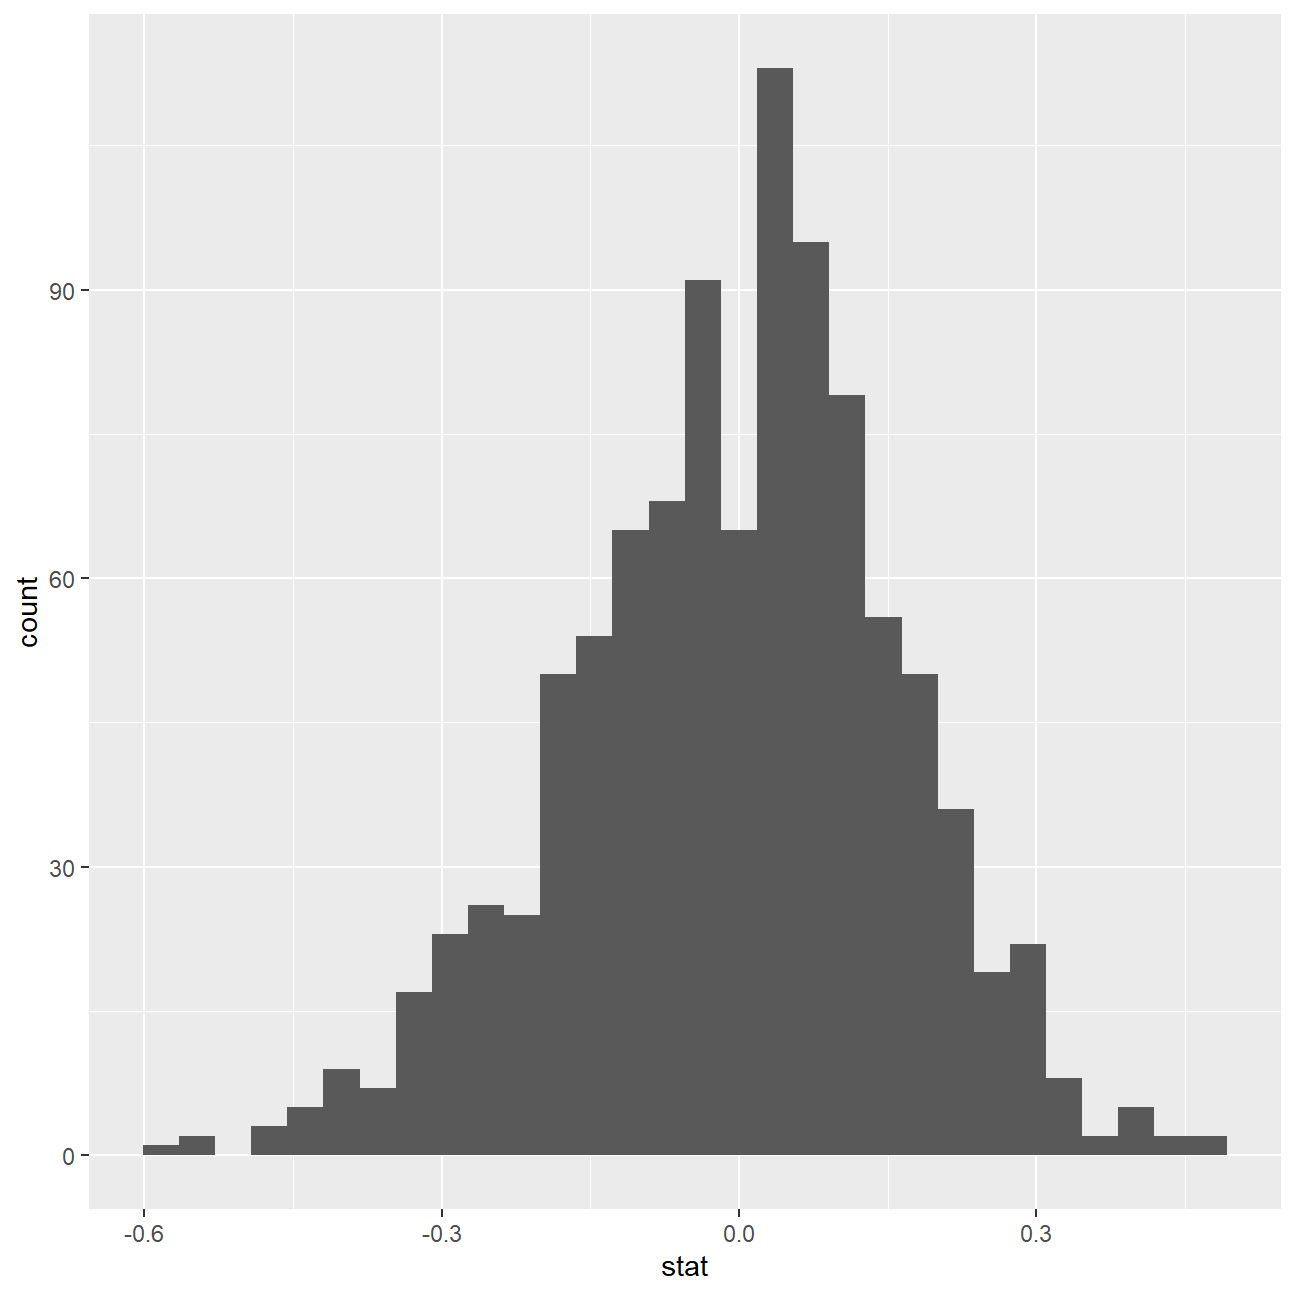
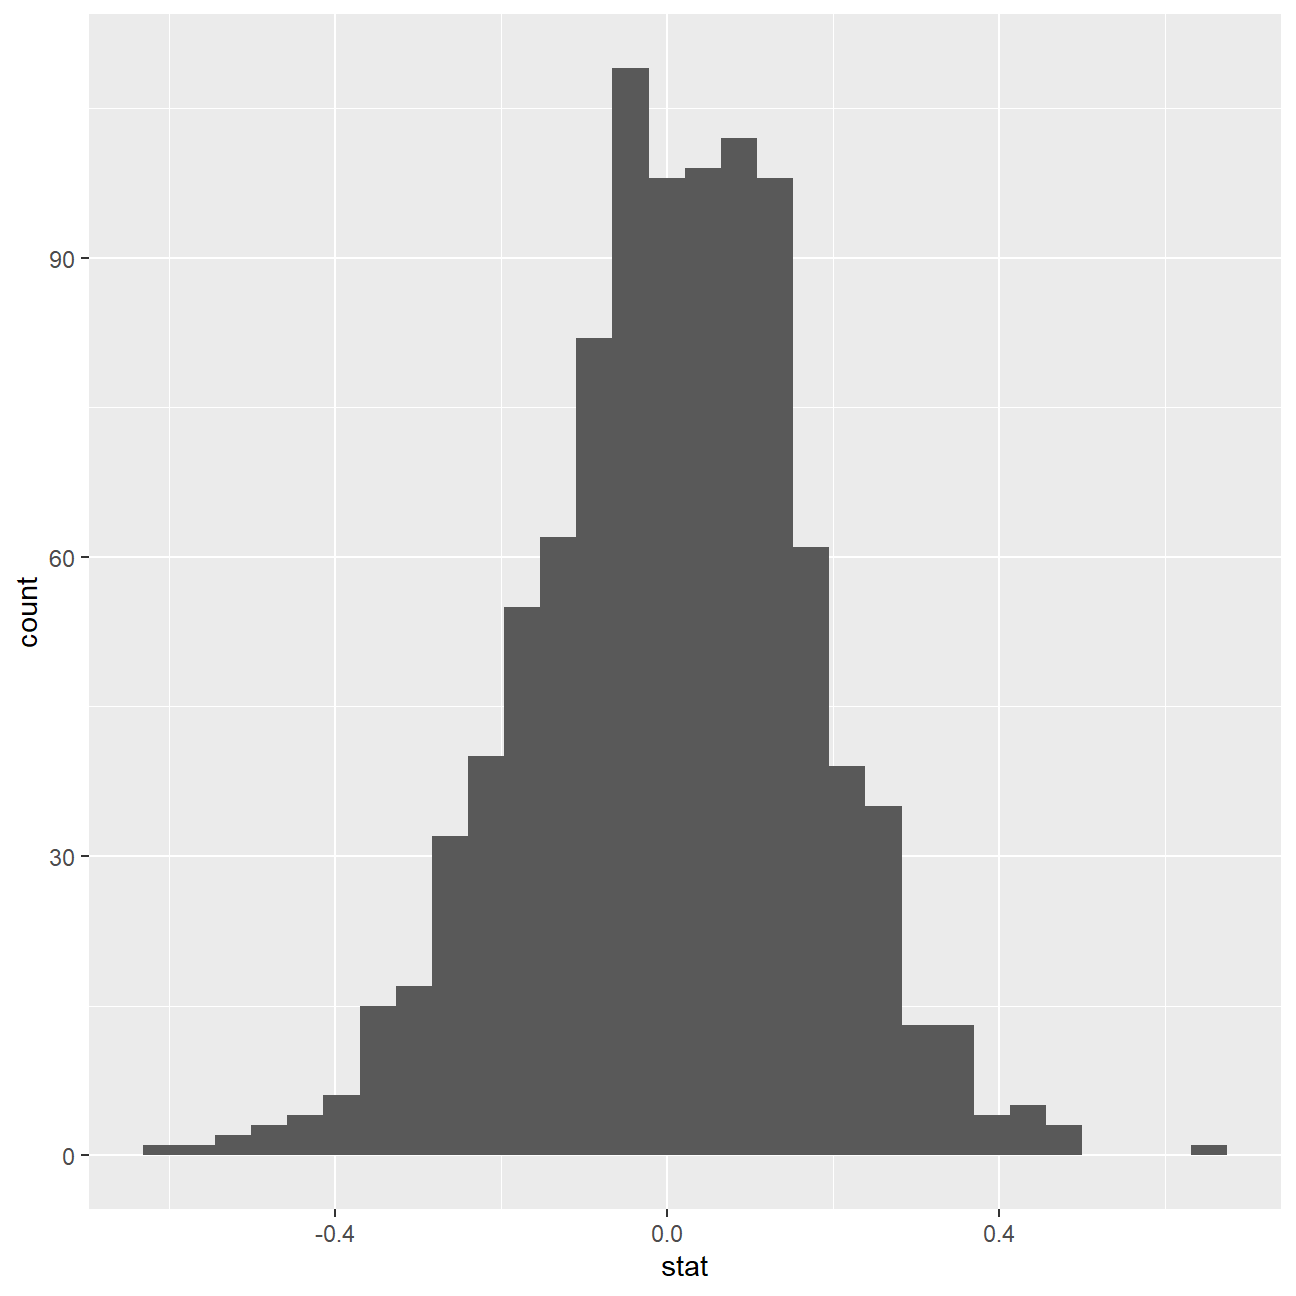
project 3 attempt 1

diff --git a/content/blogs/blog5.html b/content/blogs/blog5.html
@@ -305,7 +305,7 @@ movies_v2 &lt;- movies_v1 %&gt;%
   geom_rect(aes(xmin = lower[1], xmax = upper[2], ymin = 0, ymax = 3), colour = &quot;grey&quot;, alpha = 0.2)
 
 p</code></pre>
-<p><img src="themes/forty/exampleSite/content/blogs/blog5_files/figure-html/unnamed-chunk-2-1.png" width="648" style="display: block; margin: auto;" /></p>
+<p><img src="/blogs/blog5_files/figure-html/unnamed-chunk-2-1.png" width="648" style="display: block; margin: auto;" /></p>
 </div>
 <div id="hypothesis-test-with-formula" class="section level2">
 <h2>Hypothesis test with formula</h2>
@@ -351,25 +351,25 @@ obs_diff</code></pre>
   calculate(stat = &quot;diff in means&quot;, order = c(TRUE, FALSE))
 null_dist</code></pre>
 <pre><code>## # A tibble: 1,000 x 2
-##    replicate    stat
-##        &lt;int&gt;   &lt;dbl&gt;
-##  1         1  0.232 
-##  2         2  0.260 
-##  3         3  0.102 
-##  4         4 -0.314 
-##  5         5  0.211 
-##  6         6 -0.197 
-##  7         7 -0.0177
-##  8         8  0.284 
-##  9         9  0.0135
-## 10        10 -0.0229
+##    replicate     stat
+##        &lt;int&gt;    &lt;dbl&gt;
+##  1         1 -0.0540 
+##  2         2 -0.192  
+##  3         3  0.351  
+##  4         4 -0.00727
+##  5         5 -0.153  
+##  6         6  0.0525 
+##  7         7  0.149  
+##  8         8  0.294  
+##  9         9  0.143  
+## 10        10  0.0707 
 ## # ... with 990 more rows</code></pre>
 <pre class="r"><code>ggplot(data = null_dist, aes(x = stat)) +
   geom_histogram()</code></pre>
-<p><img src="themes/forty/exampleSite/content/blogs/blog5_files/figure-html/unnamed-chunk-4-1.png" width="648" style="display: block; margin: auto;" /></p>
+<p><img src="/blogs/blog5_files/figure-html/unnamed-chunk-4-1.png" width="648" style="display: block; margin: auto;" /></p>
 <pre class="r"><code>null_dist %&gt;% visualize() +
   shade_p_value(obs_stat = obs_diff, direction = &quot;two-sided&quot;)</code></pre>
-<p><img src="themes/forty/exampleSite/content/blogs/blog5_files/figure-html/unnamed-chunk-4-2.png" width="648" style="display: block; margin: auto;" /></p>
+<p><img src="/blogs/blog5_files/figure-html/unnamed-chunk-4-2.png" width="648" style="display: block; margin: auto;" /></p>
 <pre class="r"><code>null_dist %&gt;%
   get_p_value(obs_stat = obs_diff, direction = &quot;two_sided&quot;)</code></pre>
 <pre><code>## # A tibble: 1 x 1

diff --git a/content/projects/project3/index.html b/content/projects/project3/index.html
@@ -1,10 +1,11 @@
 ---
-title: "Analysis of movies - IMDB dataset"
-date: '2020-10-14'
-description: ''
+title: "index"
+date: '2020-10-11'
+description: STEVEN SPIELBERG VS TIM BURTON
+image: IMDB.jpg
 draft: no
 keywords: ''
-slug: "pj5"
+slug: "index"
 categories:
 - ''
 - ''
@@ -353,16 +354,16 @@ null_dist</code></pre>
 <pre><code>## # A tibble: 1,000 x 2
 ##    replicate    stat
 ##        &lt;int&gt;   &lt;dbl&gt;
-##  1         1  0.216 
-##  2         2  0.125 
-##  3         3 -0.0956
-##  4         4  0.284 
-##  5         5  0.198 
-##  6         6  0.0447
-##  7         7 -0.452 
-##  8         8  0.0759
-##  9         9  0.0655
-## 10        10  0.0135
+##  1         1 -0.285 
+##  2         2 -0.252 
+##  3         3  0.0837
+##  4         4  0.0837
+##  5         5  0.442 
+##  6         6  0.117 
+##  7         7 -0.358 
+##  8         8  0.320 
+##  9         9 -0.163 
+## 10        10  0.188 
 ## # ... with 990 more rows</code></pre>
 <pre class="r"><code>ggplot(data = null_dist, aes(x = stat)) +
   geom_histogram()</code></pre>
